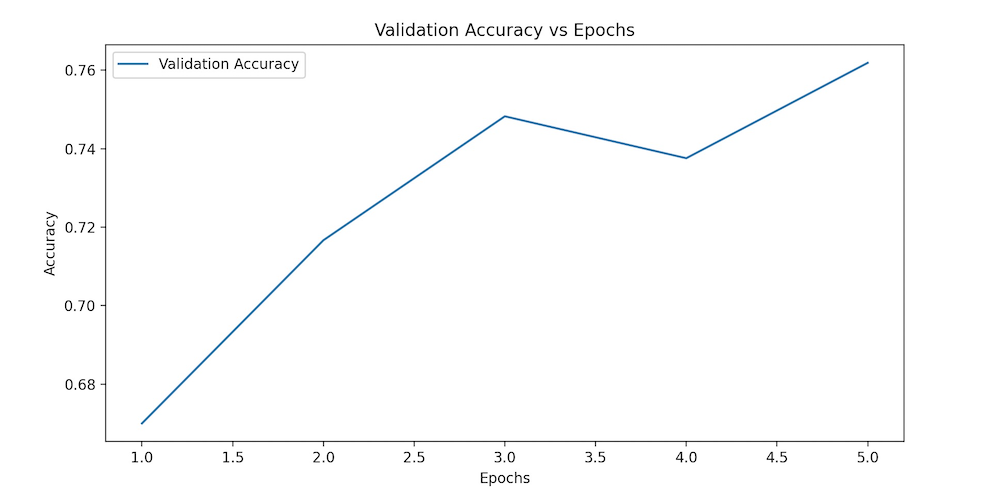
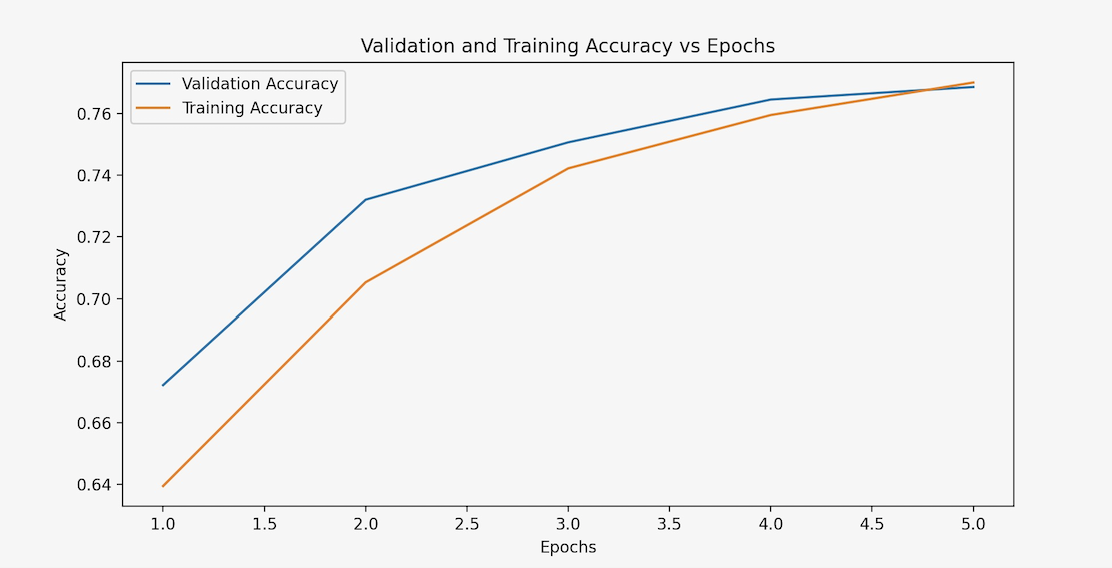
training acc updated

diff --git a/train_rnn.py b/train_rnn.py
@@ -6,13 +6,13 @@ from torch.nn.utils.rnn import pad_sequence, pack_padded_sequence
 from utils import get_data_torchtext
 from tqdm import tqdm
 import matplotlib.pyplot as plt
- 
+
 
 # Loading data and preprocessing
 file_path = "./data/data.csv"
 vocab_specials = ["<unk>"]
 vocab, tokenizer, data = get_data_torchtext(file_path=file_path, vocab_specials=vocab_specials)
- 
+
 # Defining the RNN model
 class SimpleRNN(nn.Module):
     def __init__(self, input_dim, embedding_dim, hidden_dim, output_dim):
@@ -20,62 +20,61 @@ class SimpleRNN(nn.Module):
         self.embedding = nn.Embedding(input_dim, embedding_dim)
         self.rnn = nn.RNN(embedding_dim, hidden_dim, batch_first=True)
         self.fc = nn.Linear(hidden_dim, output_dim)
- 
+
     def forward(self, text, lengths):
         embedded = self.embedding(text)
         packed_embedded = pack_padded_sequence(embedded, lengths, batch_first=True, enforce_sorted=True)
         packed_output, hidden = self.rnn(packed_embedded)
         return self.fc(hidden[-1])
- 
+
 
 # Splitting the data into training and validation sets
 split_ratio = 0.8
 split_index = int(len(data) * split_ratio)
 train_data, valid_data = data[:split_index], data[split_index:]
- 
+
 # Initializing the model, optimizer, and loss function
 input_dim = len(vocab)
 embedding_dim = 100
 hidden_dim = 256
 output_dim = 1
- 
+
 model = SimpleRNN(input_dim, embedding_dim, hidden_dim, output_dim)
 optimizer = optim.SGD(model.parameters(), lr=0.01)
 criterion = nn.BCEWithLogitsLoss()
- 
+
 def collate_fn(batch):
     labels = torch.tensor([item[0] for item in batch], dtype=torch.float)
     texts = [torch.tensor(numericalize_text(item[1])) for item in batch]
     lengths = torch.tensor([len(text) for text in texts])
- 
     # Pad the sequences
     texts_padded = pad_sequence(texts, batch_first=True)
-  
     # Sort the batch by descending lengths
     lengths, sort_idx = lengths.sort(descending=True)
     texts_padded = texts_padded[sort_idx]
     labels = labels[sort_idx]
-  
     return labels, texts_padded, lengths
- 
+
 train_loader = DataLoader(train_data, batch_size=64, shuffle=True, collate_fn=collate_fn)
 valid_loader = DataLoader(valid_data, batch_size=64, shuffle=False, collate_fn=collate_fn)
- 
+
 # Function to numericalize the text
 def numericalize_text(text):
     return [vocab[token] for token in tokenizer(text)]
- 
+
 # Training loop with progress bar
 epochs = 5
 train_losses = []
 valid_losses = []
+train_accuracies = [] 
 accuracies = []
- 
+
 for epoch in range(epochs):
     model.train()
     train_bar = tqdm(train_loader, desc=f'Training Epoch {epoch + 1}/{epochs}')
     epoch_train_losses = []
- 
+    correct_predictions_train = 0  
+    total_examples_train = 0  
     for labels, text, lengths in train_bar:
         optimizer.zero_grad()
         predictions = model(text, lengths).squeeze(1)
@@ -84,18 +83,26 @@ for epoch in range(epochs):
         optimizer.step()
         epoch_train_losses.append(loss.item())
         train_bar.set_postfix(loss=loss.item())
+
+        # Calc training accuracy during training loop
+        rounded_predictions_train = torch.round(torch.sigmoid(predictions))
+        correct_predictions_train += (rounded_predictions_train == labels).sum().item()
+        total_examples_train += labels.size(0)
  
-    # Calc training loss for the epoch
+
+    # Calc training loss and accuracy for the epoch
     avg_train_loss = sum(epoch_train_losses) / len(epoch_train_losses)
     train_losses.append(avg_train_loss)
- 
+    accuracy_train = correct_predictions_train / total_examples_train
+    train_accuracies.append(accuracy_train)
+
     # Validation loop with progress bar
     model.eval()
     correct_predictions = 0
     total_examples = 0
     epoch_valid_losses = []
     valid_bar = tqdm(valid_loader, desc='Evaluating')
- 
+
     with torch.no_grad():
         for labels, text, lengths in valid_bar:
             predictions = model(text, lengths).squeeze(1)
@@ -105,24 +112,23 @@ for epoch in range(epochs):
             correct_predictions += (rounded_predictions == labels).sum().item()
             total_examples += labels.size(0)
             valid_bar.set_postfix(accuracy=100.0 * correct_predictions / total_examples)
- 
+
     # Calc validation loss and accuracy for the epoch
     avg_valid_loss = sum(epoch_valid_losses) / len(epoch_valid_losses)
     valid_losses.append(avg_valid_loss)
- 
     accuracy = correct_predictions / total_examples
     accuracies.append(accuracy)
- 
-# Plotting accuracy vs epochs
+
+# Plotting accuracy vs epochs with training accuracy
 plt.figure(figsize=(10, 5))
 plt.plot(range(1, epochs + 1), accuracies, label='Validation Accuracy')
-plt.title('Validation Accuracy vs Epochs')
+plt.plot(range(1, epochs + 1), train_accuracies, label='Training Accuracy')  
+plt.title('Validation and Training Accuracy vs Epochs')
 plt.xlabel('Epochs')
 plt.ylabel('Accuracy')
 plt.legend()
 plt.savefig('./results/accuracy_vs_epochs.png')
 plt.show()
- 
 # Plotting training and validation loss vs epochs
 plt.figure(figsize=(10, 5))
 plt.plot(range(1, epochs + 1), train_losses, label='Training Loss')
